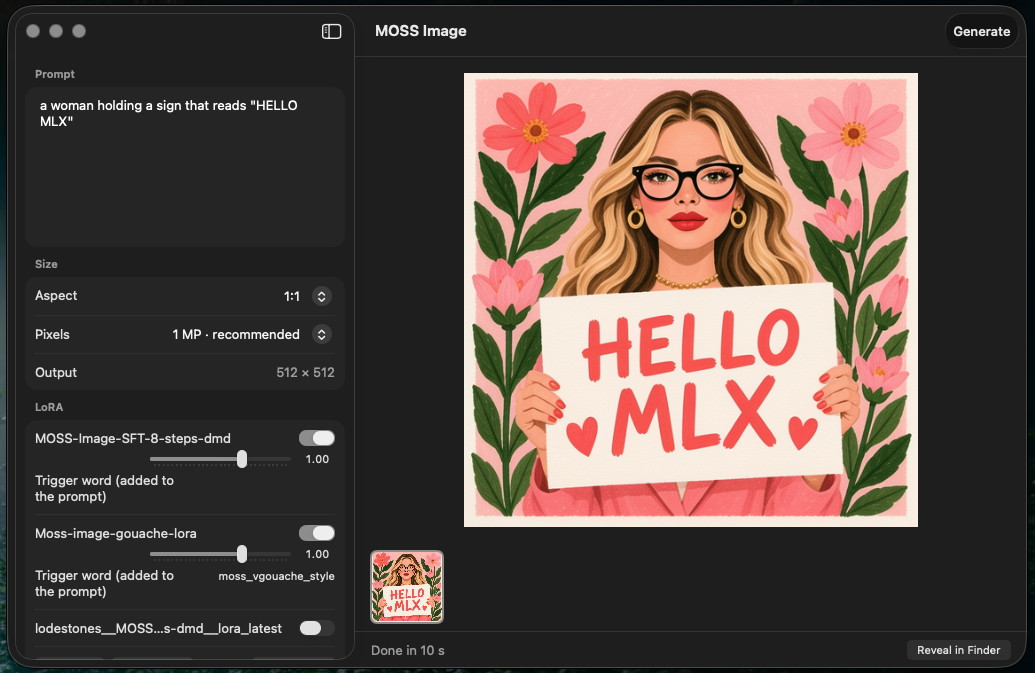
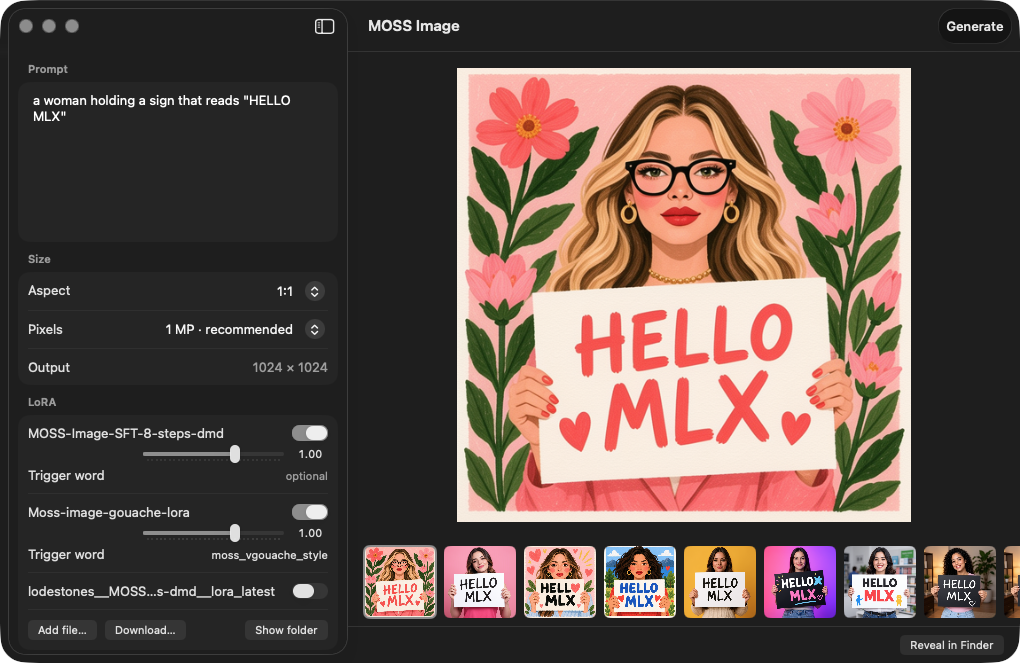
Persist history from the output folder; replace README screenshot
The history strip only held the current session, so a relaunch showed an
empty preview. Now lists PNGs in the output folder newest first, prompt and
seed read from the JSON sidecar. The old README screenshot showed the stale
512x512 Output bug fixed in the previous commit; retaken with the new
MOSS_SCREENSHOT env hook, which captures the window via CGWindowListCreateImage
(a plain view-tree render leaves the vibrant sidebar blank, tried first).
Checked: relaunch shows prior renders, capture shows Output 1024 x 1024.

diff --git a/Sources/MossImage/MossImageApp.swift b/Sources/MossImage/MossImageApp.swift
@@ -54,7 +54,23 @@ final class Generator: ObservableObject {
 
     private var process: Process?
 
-    init() { refreshLoras(); if aspect != "custom" { applyPreset() } }
+    init() { refreshLoras(); if aspect != "custom" { applyPreset() }; loadHistory() }
+
+    /// Previous renders from the output folder, newest first; prompt and seed come from the JSON sidecar.
+    func loadHistory(limit: Int = 60) {
+        let dir = URL(fileURLWithPath: outputDir)
+        guard let urls = try? FileManager.default.contentsOfDirectory(at: dir, includingPropertiesForKeys: [.contentModificationDateKey]) else { return }
+        let pngs = urls.filter { $0.pathExtension == "png" }
+            .sorted { (try? $0.resourceValues(forKeys: [.contentModificationDateKey]).contentModificationDate ?? .distantPast) ?? .distantPast
+                    > (try? $1.resourceValues(forKeys: [.contentModificationDateKey]).contentModificationDate ?? .distantPast) ?? .distantPast }
+            .prefix(limit)
+        jobs = pngs.map { url in
+            let side = url.deletingPathExtension().appendingPathExtension("json")
+            let params = (try? JSONSerialization.jsonObject(with: Data(contentsOf: side)) as? [String: Any])?["parameters"] as? [String: Any]
+            return Job(url: url, prompt: params?["prompt"] as? String ?? "", seed: params?["seed"] as? Int ?? 0, seconds: 0)
+        }
+        selected = jobs.first
+    }
 
     /// Enabled adapters and their strengths, persisted as JSON. Disabled adapters are simply absent.
     var loraState: [String: Double] {
@@ -227,6 +243,10 @@ struct ContentView: View {
     @StateObject private var gen = Generator()
 
     var body: some View {
+        content.background(WindowSnapshot())
+    }
+
+    private var content: some View {
         NavigationSplitView {
             ControlsView(gen: gen)
                 .navigationSplitViewColumnWidth(min: 300, ideal: 340, max: 420)
@@ -387,7 +407,7 @@ struct PreviewView: View {
                                     .overlay(RoundedRectangle(cornerRadius: 6)
                                         .stroke(gen.selected == job ? Color.accentColor : .clear, lineWidth: 2))
                                     .onTapGesture { gen.selected = job }
-                                    .help("seed \(job.seed) · \(Int(job.seconds)) s")
+                                    .help(job.seconds > 0 ? "seed \(job.seed) · \(Int(job.seconds)) s" : "seed \(job.seed)")
                             }
                         }
                     }
@@ -506,6 +526,26 @@ final class ImageScrollView: NSScrollView {
     }
 
     override var acceptsFirstResponder: Bool { true }
+}
+
+/// With MOSS_SCREENSHOT=<png path> in the environment, captures the window 2 s after launch and quits.
+/// Uses the window server (macOS asks once for Screen Recording for this app) so the vibrant sidebar and
+/// toolbar render; a plain view-tree render leaves those blank.
+struct WindowSnapshot: NSViewRepresentable {
+    func makeNSView(context: Context) -> NSView {
+        let v = NSView()
+        guard let path = ProcessInfo.processInfo.environment["MOSS_SCREENSHOT"] else { return v }
+        DispatchQueue.main.asyncAfter(deadline: .now() + 2) {
+            defer { NSApp.terminate(nil) }
+            guard let window = v.window,
+                  let cg = CGWindowListCreateImage(.null, .optionIncludingWindow, CGWindowID(window.windowNumber),
+                                                   [.boundsIgnoreFraming, .bestResolution]) else { return }
+            let rep = NSBitmapImageRep(cgImage: cg)
+            try? rep.representation(using: .png, properties: [:])?.write(to: URL(fileURLWithPath: path))
+        }
+        return v
+    }
+    func updateNSView(_ view: NSView, context: Context) {}
 }
 
 /// Finds the enclosing NSScrollView and switches it to thin, auto-hiding overlay scrollers,

diff --git a/README.md b/README.md
@@ -10,7 +10,7 @@ the Apple Silicon port of OpenMOSS's MOSS-Image text-to-image model.
   per-adapter strength and trigger words that are added to the prompt only while the adapter is on
 - Few-step DMD adapters (8 steps, no CFG) out of the box
 - Advanced: steps, CFG, negative prompt, seed, model tier
-- Preview with scroll-wheel zoom, drag pan, session history strip
+- Preview with scroll-wheel zoom, drag pan, and a history strip of everything in the output folder
 
 ## Requirements
 
@@ -50,5 +50,8 @@ iconutil -c icns icon/AppIcon.iconset -o icon/AppIcon.icns
 3. **Download…** fetches any Hugging Face LoRA by repo id and filename. The known list sets steps and CFG
    for the lodestones 8-step DMD adapters.
 4. Images and a JSON sidecar with the exact parameters land in `~/Pictures/MOSS Image`.
+
+For docs, `MOSS_SCREENSHOT=/path/shot.png open MossImage.app` captures the window two seconds after
+launch and quits.
 
 Model weights download on first run to the Hugging Face cache (compact tier, 12 GB).
